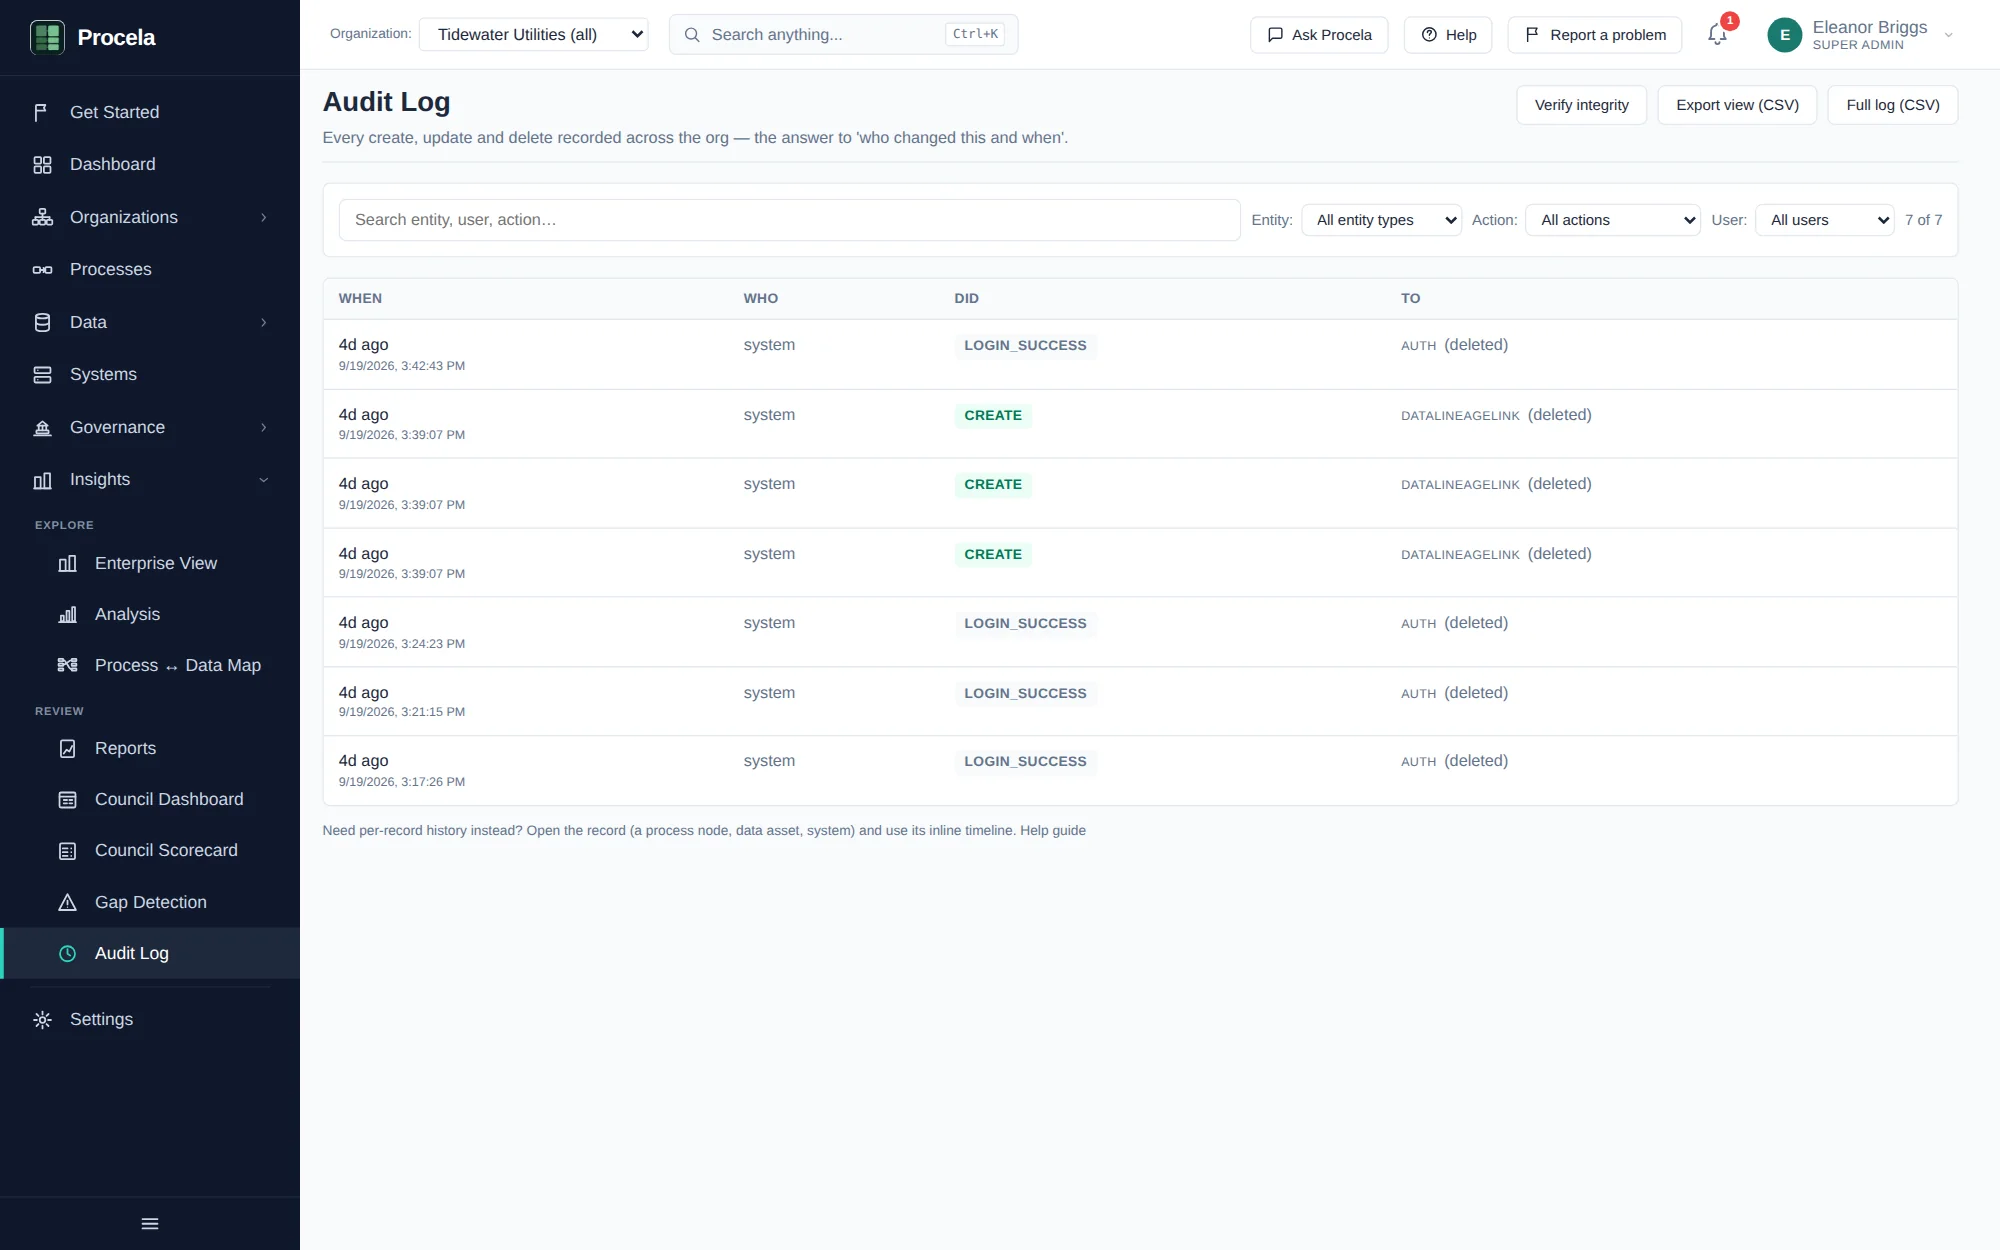
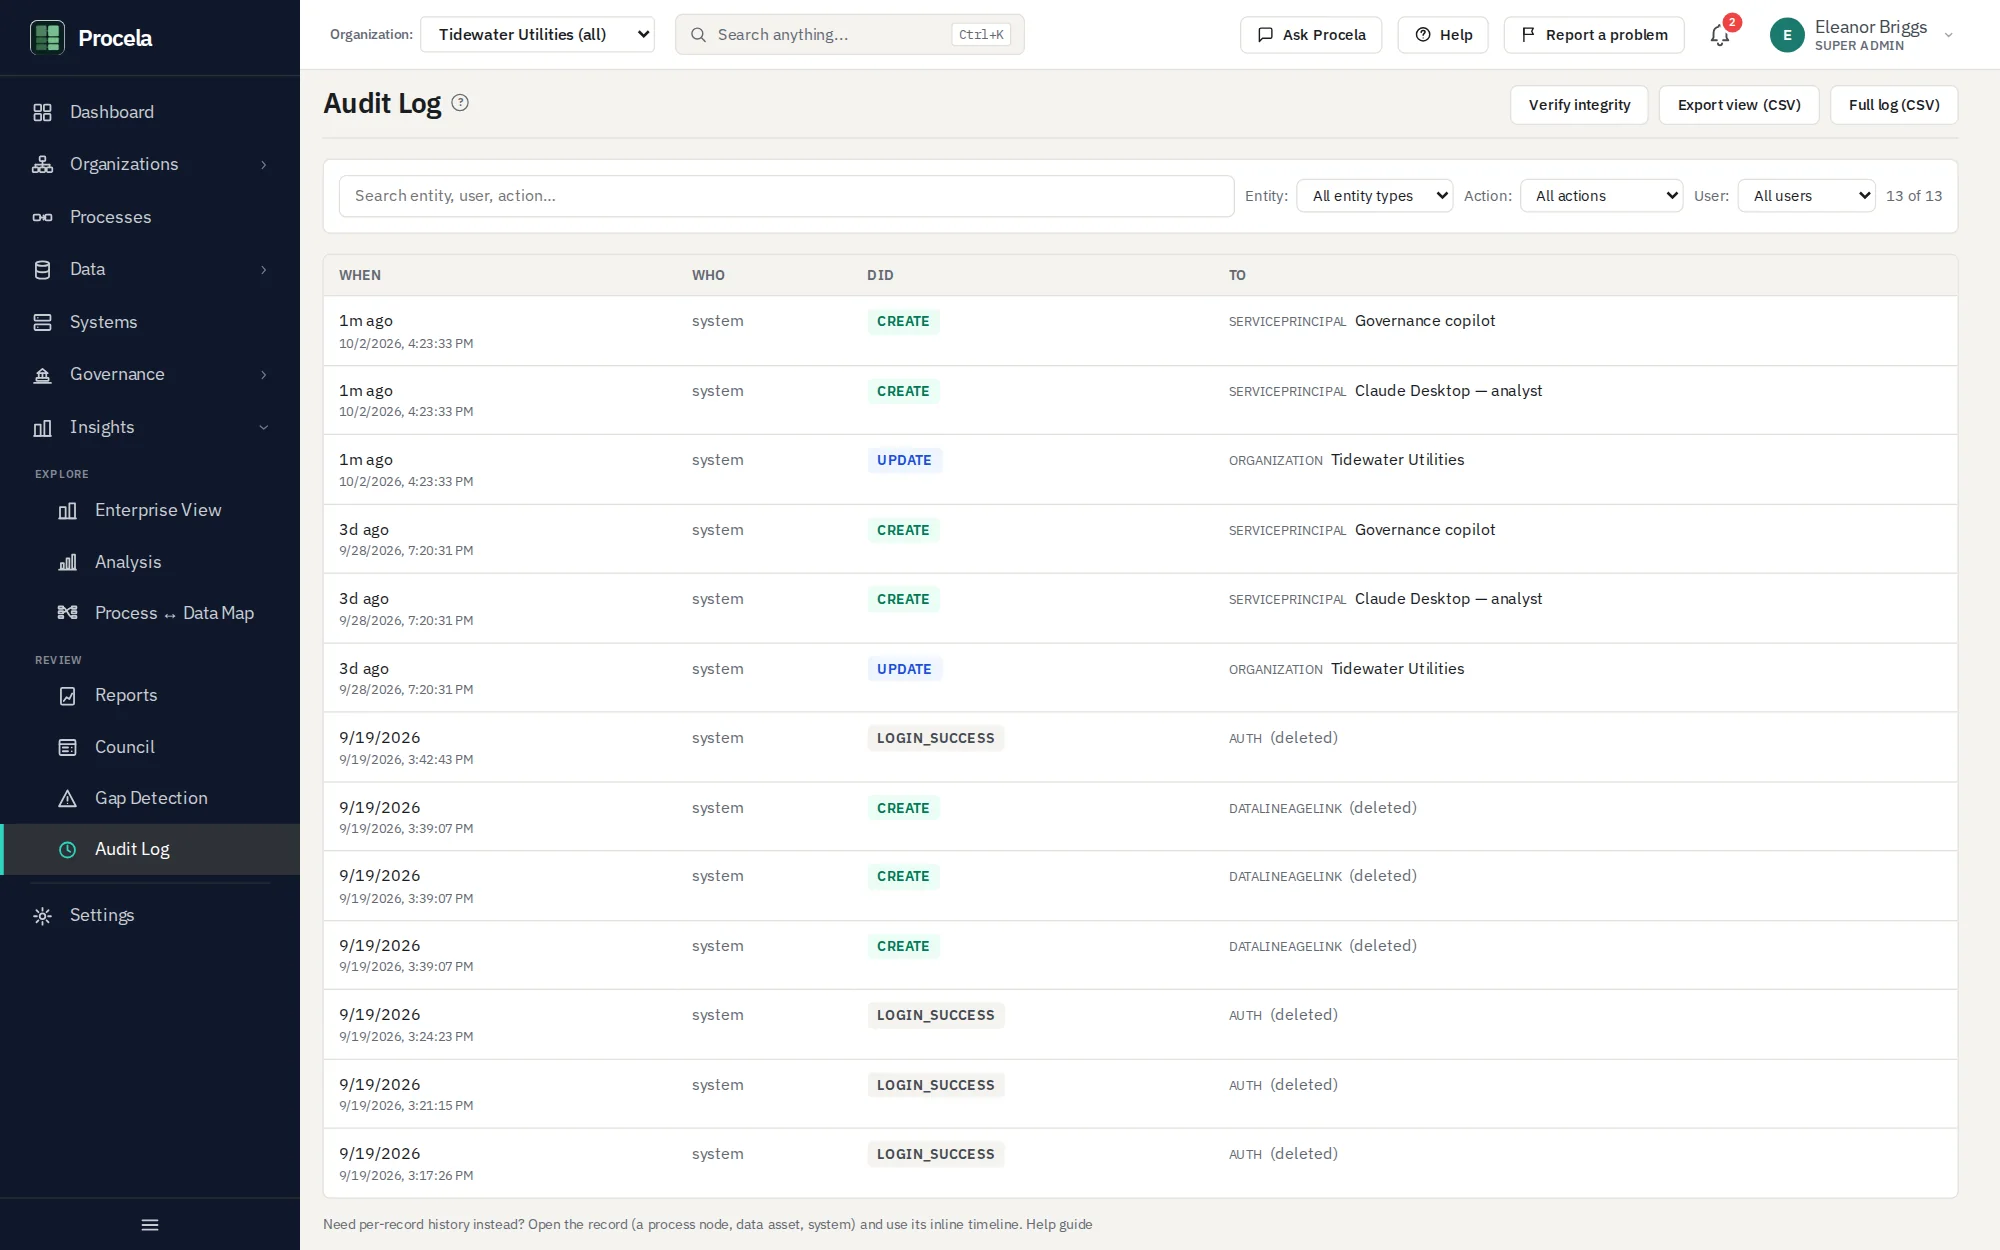
Refresh all app screenshots to the retheme; retire the removed setup screen
The app got a warm-neutral + IBM Plex retheme plus a two-pane Process
Catalog and master-detail Data Domains. Re-captured all 15 product
screens (+ the Agent access panel, now with a clean two-token list)
against seeded + enriched demo data.

The "Get Started" / setup journey was removed from the app (/setup now
redirects to the dashboard), so retire setup.webp and repoint the
how-it-works "in the product" row to the Process Catalog, and drop the
stale "in-product setup journey" line from the track intro.

Claude-Session: https://claude.ai/code/session_01KJa1GsMMHLvb8vFejFkGtX

diff --git a/app/how-it-works/page.tsx b/app/how-it-works/page.tsx
@@ -71,9 +71,9 @@ export default function HowItWorksPage() {
           <span className="eyebrow">The DG Foundation track</span>
           <h2 className="section-title">Six steps to a running program</h2>
           <p className="section-body">
-            Each step maps to a stage of the in-product setup journey — Capture,
-            Assign, Govern, and Operate — so the track you read here is the one you
-            run in the product.
+            The track moves through four stages — Capture, Assign, Govern, and
+            Operate — building an audit-ready baseline and then keeping it running
+            as new assets arrive.
           </p>
           <div className="steps">
             {STEPS.map((s) => (
@@ -115,17 +115,18 @@ export default function HowItWorksPage() {
 
           <div className="product-row">
             <div className="product-copy">
-              <span className="product-kicker">Set up &amp; launch</span>
-              <h3>One journey from empty org to running program</h3>
+              <span className="product-kicker">Process catalog</span>
+              <h3>Governance anchored to how the business runs</h3>
               <p>
-                Procela walks the whole program through four stages — Capture, Assign,
-                Govern, Operate — showing exactly what&apos;s done, what&apos;s derived
-                automatically from your catalog, and the next actions to advance it.
+                Map value streams to processes, sub-processes, and activities in a
+                two-pane catalog — each with a named owner, the systems and data it
+                touches, and a readiness check that shows exactly what&apos;s left to
+                activate it.
               </p>
             </div>
             <BrowserFrame
-              src="/screenshots/setup.webp"
-              alt="Procela's Set up Procela journey showing four stages — Capture, Assign, Govern, and Operate — with per-stage progress and a prioritized list of next actions."
+              src="/screenshots/processes.webp"
+              alt="Procela's two-pane Process Catalog — a value-stream / process / activity tree on the left and a detail panel on the right showing the selected process's owner and activation readiness."
             />
           </div>
 
